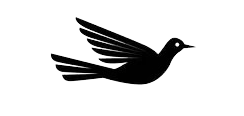
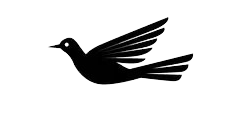
koha on right

Changed region(s): [[0.2008, 0.1552, 0.8033, 0.75]]

diff --git a/styles.css b/styles.css
@@ -115,8 +115,8 @@ body {
   
   .koha {
     position: absolute;
-    top: 45%;
-    left: 0;
+    top: 20%;
+    right: 0;
     height: 10vh;
     animation: bounce 2s infinite;
     z-index: 2;
@@ -157,7 +157,7 @@ body {
     position: absolute;
     bottom: 20%;
     left: 15px;
-    color: white;
+    color: black;
     font-size: 18px;
     font-weight: 500;
     z-index: 20;
